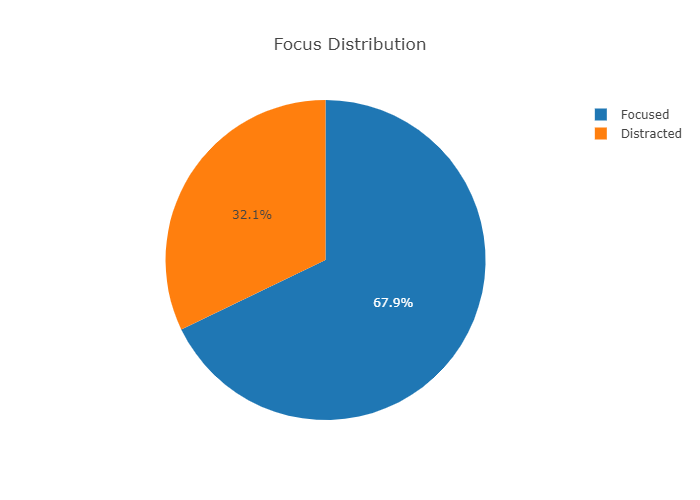
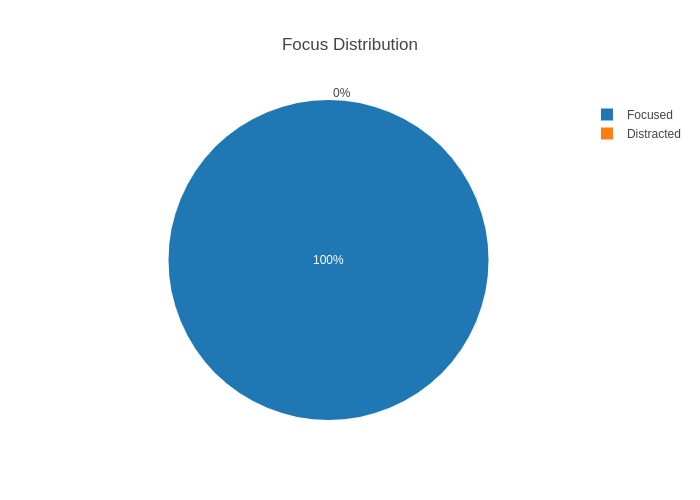
mood display in cv2 window

diff --git a/public_static/js/mood.js b/public_static/js/mood.js
@@ -26,7 +26,7 @@ socket.on('emoHtml', msg => {
     }
     else {
         val = msg[5]%10
-        $('#framediv').html(`<img src="/frames/fig${val}.png?${msg[5]}" height="450">`);
+        $('#framediv').html(`<img src="/bg2.png">`);
         // ? value keeps the url unique, while accessing the file with link before ?, this helps to beat cached images with old url
         $('#content').html(`<h2>${msg[0]}</h2><h4>${msg[1]}</h4>`);
         $('#content2').html(`<h2>${msg[2]}</h2><h4>${msg[3]}</h4>`);

diff --git a/Code_Python/main_new.py b/Code_Python/main_new.py
@@ -13,52 +13,54 @@ import socket
 import time
 from socketIO_client import SocketIO, LoggingNamespace
 
-isSocket = 0
+isSocket = 1
 debug    = 0
+firstTime = 1
+
 
 #______________________________________________________________
 
-# import sys, termios, atexit
-# from select import select
-#
-# # save the terminal settings
-# fd = sys.stdin.fileno()
-# new_term = termios.tcgetattr(fd)
-# old_term = termios.tcgetattr(fd)
-#
-# # new terminal setting unbuffered
-# new_term[3] = (new_term[3] & ~termios.ICANON & ~termios.ECHO)
-#
-# # switch to normal terminal
-# def set_normal_term():
-#     termios.tcsetattr(fd, termios.TCSAFLUSH, old_term)
-#
-# # switch to unbuffered terminal
-# def set_curses_term():
-#     termios.tcsetattr(fd, termios.TCSAFLUSH, new_term)
-#
-# def putch(ch):
-#     sys.stdout.write(ch)
-#
-# def getch():
-#     return sys.stdin.read(1)
-#
-# def getche():
-#     ch = getch()
-#     putch(ch)
-#     return ch
-#
-# def kbhit():
-#     dr,dw,de = select([sys.stdin], [], [], 0)
-#     return dr
-#
-# def keyPressStart():
-#     atexit.register(set_normal_term)
-#     set_curses_term()
-#
-# def keyPressEnd():
-#     atexit.register(set_curses_term)
-#     set_normal_term()
+import sys, termios, atexit
+from select import select
+
+# save the terminal settings
+fd = sys.stdin.fileno()
+new_term = termios.tcgetattr(fd)
+old_term = termios.tcgetattr(fd)
+
+# new terminal setting unbuffered
+new_term[3] = (new_term[3] & ~termios.ICANON & ~termios.ECHO)
+
+# switch to normal terminal
+def set_normal_term():
+    termios.tcsetattr(fd, termios.TCSAFLUSH, old_term)
+
+# switch to unbuffered terminal
+def set_curses_term():
+    termios.tcsetattr(fd, termios.TCSAFLUSH, new_term)
+
+def putch(ch):
+    sys.stdout.write(ch)
+
+def getch():
+    return sys.stdin.read(1)
+
+def getche():
+    ch = getch()
+    putch(ch)
+    return ch
+
+def kbhit():
+    dr,dw,de = select([sys.stdin], [], [], 0)
+    return dr
+
+def keyPressStart():
+    atexit.register(set_normal_term)
+    set_curses_term()
+
+def keyPressEnd():
+    atexit.register(set_curses_term)
+    set_normal_term()
 
 #______________________________________________________
 
@@ -91,13 +93,18 @@ def preprocess_input(image):
 
 while True:
 
-    print('Start server? (y for yes; m for yes WITH mood; any other to stop)')
+    print('Start session? (y for yes; m for yes WITH mood; any other to stop)')
     inx = input()
     if(inx!='y' and inx!='m'):
         break
+    
+    if inx=='m':
+        cv2.namedWindow('Mood')
+        cv2.moveWindow('Mood', 340,130)
 
-    # print('Server Started. Press `q` to stop, `p` to pause. (Keys to be pressed on terminal)')
-    # keyPressStart()
+
+    print('Session Started. Press `q` to stop, `p` to pause. (Keys to be pressed on terminal)')
+    keyPressStart()
 
     frame_w = 1200
     border_w = 2
@@ -214,22 +221,22 @@ while True:
                     # save eye result
                     probs.append(pred[0])
 
-                probs_mean = np.mean(probs)
-                if(np.isnan(probs_mean)):
-                    Engage.append(np.random.uniform(0.6,0.7))
-                    distraction_acc = 1 - Engage[-1]
+                if(len(eyes)==0):
+                    probs_mean = (np.random.uniform(0.6,0.7))
                 else:
-                    Engage.append(probs_mean)
-                    distraction_acc = 1 - Engage[-1]
+                    probs_mean = np.mean(probs)
+                Engage.append(probs_mean)
 
                 # get label
                 if probs_mean <= 0.5:
                     label = 'Distracted'
                     pause = 'y'
+                    distraction_acc = 1 - probs_mean
                     cntDistracted += 1
                 else:
                     label = 'Focused'
                     pause = 'n'
+                    distraction_acc = probs_mean
                     cntFocused += 1
 
                 distraction = label
@@ -261,8 +268,8 @@ while True:
 
             if debug:
                 print(disp)
-            if(inx=='m'):
-                cv2.imwrite('../public_static/frames/fig'+str(cntTime%10)+'.png', frame)
+            #if(inx=='m'):
+             #   cv2.imwrite('../public_static/frames/fig'+str(cntTime%10)+'.png', frame)
 
             if isSocket==1:
                 socket.emit('emoNode', msg)
@@ -273,26 +280,33 @@ while True:
                 if key == ord('q'):
                     break
 
-            # if kbhit():
-            #     ch = getch()
-            #     if(ch=='p'):
-            #         keyPressEnd()
-            #         video_capture.release()
-            #         cv2.destroyAllWindows()
-            #
-            #         if isSocket==1:
-            #             socket.emit('emoNode', 'pause;pause;pause;pause;pause;pause')
-            #
-            #
-            #         print('Server paused. Press any key and then press enter to resume.')
-            #         x=input()
-            #         video_capture = cv2.VideoCapture(0)
-            #         keyPressStart()
-            #         print('Server Resumed. Press `q` to stop, `p` to pause. (Keys to be pressed on terminal)')
-            #     if(ch=='q'):
-            #         break
+            if inx=='m':
+                img = cv2.resize(frame, (685,390))
+                cv2.imshow('Mood', img)
+                key = cv2.waitKey(1) & 0xFF
+                if key == ord('q'):
+                    break
 
+            if kbhit():
+                ch = getch()
+                if(ch=='p'):
+                    keyPressEnd()
+                    video_capture.release()
+                    cv2.destroyAllWindows()
+            
+                    if isSocket==1:
+                        socket.emit('emoNode', 'pause;pause;pause;pause;pause;pause')
+            
+            
+                    print('Session paused. Press any key and then press enter to resume.')
+                    x=input()
+                    video_capture = cv2.VideoCapture(0)
+                    keyPressStart()
+                    print('Session Resumed. Press `q` to stop, `p` to pause. (Keys to be pressed on terminal)')
+                if(ch=='q'):
+                    break
 
+    print('Session ended.')
     if isSocket==1:
         socket.emit('emoNode', 'saving;saving;saving;saving;saving;saving')
 
@@ -303,7 +317,8 @@ while True:
 
     emoAccuracy = np.array(emoAccuracy)
     emoAccuracy = np.reshape(emoAccuracy,(-1,7))
-    print(emoAccuracy.shape)
+    if debug==1:
+        print(emoAccuracy.shape)
 
     trace1 = go.Scatter(
             x = time_array,
@@ -392,10 +407,13 @@ while True:
     # When everything is done, release the capture
     video_capture.release()
     cv2.destroyAllWindows()
-    #keyPressEnd()
+    keyPressEnd()
+    if firstTime==1:
+        time.sleep(2)
+        firstTime = 0
     print('Figures saved')
     if isSocket==1:
         socket.emit('emoNode', 'end;end;end;end;end;end')
 
 
-print('Server Ended')
+print('Server Closed')
